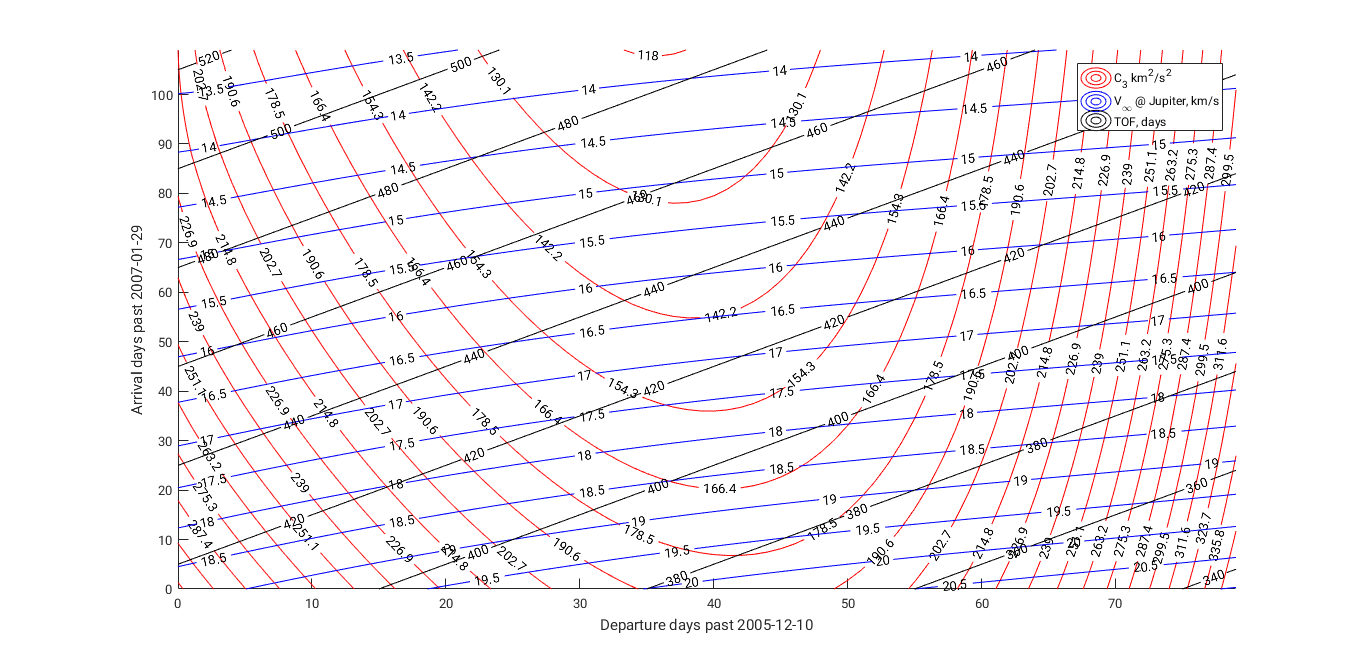
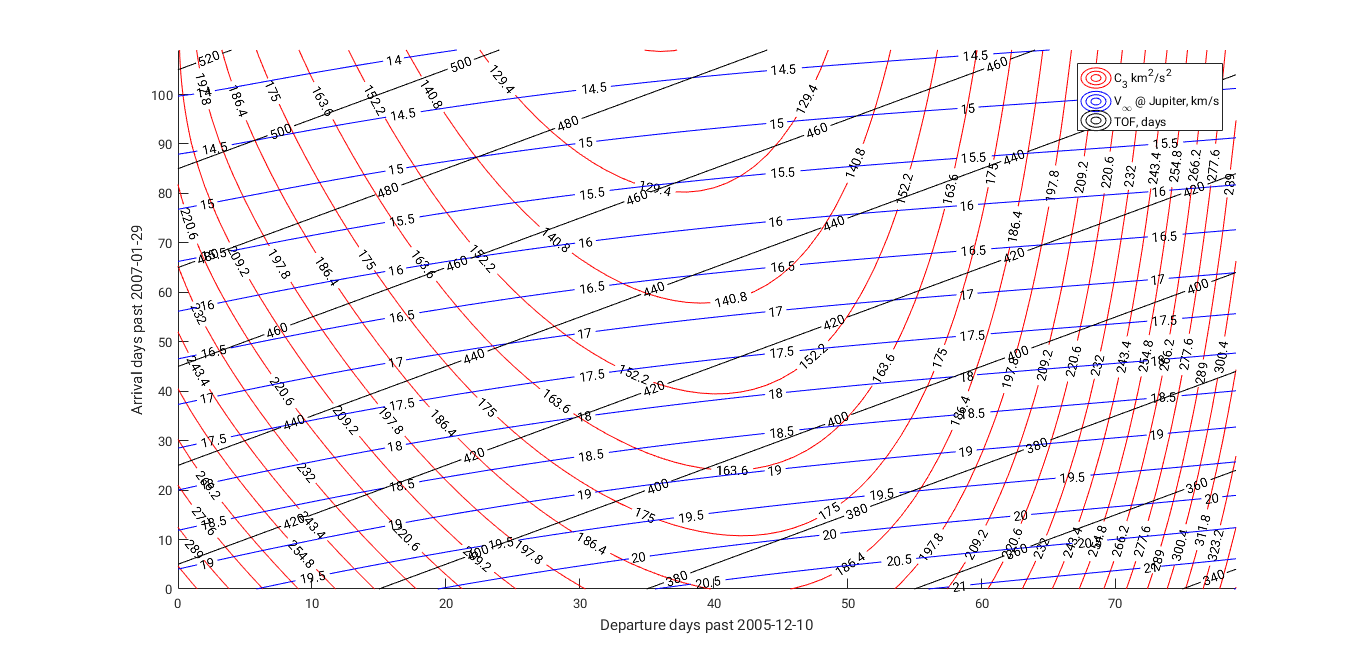
Finishing up lab6

diff --git a/cmd/pcpplots/main.go b/cmd/pcpplots/main.go
@@ -13,11 +13,15 @@ import (
 
 func main() {
 	/*** CONFIG ***/
-	/*initLaunch := time.Date(2016, 1, 1, 0, 0, 0, 0, time.UTC)
-	initArrival := time.Date(2016, 04, 30, 0, 0, 0, 0, time.UTC)
-	maxLaunch := time.Date(2016, 6, 30, 0, 0, 0, 0, time.UTC)
-	maxArrival := time.Date(2017, 2, 5, 0, 0, 0, 0, time.UTC)*/
-
+	/*
+		initPlanet := smd.Earth
+		arrivalPlanet := smd.Mars
+		initLaunch := time.Date(2016, 1, 1, 0, 0, 0, 0, time.UTC)
+		initArrival := time.Date(2016, 04, 30, 0, 0, 0, 0, time.UTC)
+		maxLaunch := time.Date(2016, 6, 30, 0, 0, 0, 0, time.UTC)
+		maxArrival := time.Date(2017, 2, 5, 0, 0, 0, 0, time.UTC)
+		pcpGenerator(initPlanet, arrivalPlanet, initLaunch, maxLaunch, initArrival, maxArrival, 1, 1, true, "lab4pcp0", true)
+	*/
 	// PCP #1 of lab 6
 	initPlanet := smd.Earth
 	arrivalPlanet := smd.Jupiter
@@ -27,29 +31,35 @@ func main() {
 	//maxLaunch := julian.JDToTime(2453794.5)
 	maxLaunch := time.Date(2006, 1, 7, 0, 0, 0, 0, time.UTC)
 	maxArrival := julian.JDToTime(2454239.5)
-	c3MapPCP1, tofMapPCP1, vinfMapPCP1 := pcpGenerator(initPlanet, arrivalPlanet, initLaunch, maxLaunch, initArrival, maxArrival, 24*4, 1, true, "lab6pcp1", true)
+
+	resolutionJupiter := 24 * 1.0
+	c3MapPCP1, tofMapPCP1, vinfMapPCP1 := pcpGenerator(initPlanet, arrivalPlanet, initLaunch, maxLaunch, initArrival, maxArrival, 24*1, resolutionJupiter, true, "lab6pcp1", true)
 
 	//PCP #2 of lab 6
-	initPlanet = smd.Jupiter
-	arrivalPlanet = smd.Pluto
-	initLaunchJup := julian.JDToTime(2454129.5)
-	initArrival = julian.JDToTime(2456917.5)
+	/*initPlanet = smd.Jupiter
+	arrivalPlanet = smd.Pluto*/
+	//initLaunchJup := julian.JDToTime(2454129.5)
+	initArrivalPluto := julian.JDToTime(2456917.5)
 	maxLaunchJup := julian.JDToTime(2454239.5)
-	maxArrival = julian.JDToTime(2457517.5)
+	maxArrivalPluto := julian.JDToTime(2457517.5)
+	//pcpGenerator(smd.Jupiter, smd.Pluto, initLaunchJup, maxLaunchJup, initArrivalPluto, maxArrivalPluto, 24*1, 24*1, false, "lab6pcp2", true)
 
 	/*** END CONFIG ***/
-	/*vinfInitMapPCP2, tofMapPCP2, vinfArrMapPCP2 :=*/
-	pcpGenerator(initPlanet, arrivalPlanet, initLaunchJup, maxLaunchJup, initArrival, maxArrival, 1, 1, false, "lab6pcp2", true)
-
-	if true {
-		return
-	}
 
 	// Lab6 searching
-	earthDepart := time.Date(2006, 1, 9, 0, 0, 0, 0, time.UTC)
-	minC3 := 1e6 // Arbitrary large value
-	maxC3 := 180.
-	minDT := time.Now()
+	//earthDepart := time.Date(2006, 1, 9, 0, 0, 0, 0, time.UTC)
+	maxC3 := 180. // Fixed
+	minC3 := 1e6  // Arbitrary large value
+	minVinfInPluto := 1e6
+	minEarthLaunchDT := time.Now()
+	minPlutoArrivalDT := time.Now()
+	/* The c3 is the most important because the lower it is, the more science payload mass we can have.
+	So the forcing function here will simply be the sum of the c3 and the vInf at arrival. Some back of the enveloppe
+	shows that should be good stuff.
+	*/
+	var mcVal, mcC3, mcVinfJGA, mcVinfPluto float64
+	mcJGA := time.Now()
+	mcVal = 1e20 // large
 	for launchDT, c3PerDay := range c3MapPCP1 {
 		for arrivalIdx, c3 := range c3PerDay {
 			if c3 > maxC3 {
@@ -60,18 +70,48 @@ func main() {
 			if arrivalDT.After(maxArrival) {
 				continue
 			}
-			// All constraints are met
-			if c3 < minC3 {
-				minDT = launchDT
-				minC3 = c3
+			vinfInJupiter := vinfMapPCP1[launchDT][arrivalIdx]
+			// All departure constraints seem to be met.
+			vinfDepJMapPCP2, tofMapPCP2, vinfArrPMapPCP2 := pcpGenerator(smd.Jupiter, smd.Pluto, arrivalDT, maxLaunchJup, initArrivalPluto, maxArrivalPluto, resolutionJupiter, 24*1, false, "lab6pcp3tmp", true)
+			// Go through solutions and move on with values which are within the constraints.
+			for depJupDT, vInfDepPerDay := range vinfDepJMapPCP2 {
+				for arrPlutIdx, vInfDepJup := range vInfDepPerDay {
+					if math.Abs(vinfInJupiter-vInfDepJup) < 0.1 {
+						vinfArr := vinfArrPMapPCP2[depJupDT][arrPlutIdx]
+						if vinfArr < 14.5 {
+							if vinfArr < minVinfInPluto {
+								minVinfInPluto = vinfArr
+							}
+							// Yay! All conditions work
+							if c3 < minC3 {
+								minEarthLaunchDT = launchDT
+								minC3 = c3
+							}
+							//minPlutoArrivalDT
+							plutoTOF := tofMapPCP2[launchDT][arrivalIdx]
+							plutoArrivalDT := arrivalDT.Add(time.Duration(plutoTOF*24) * time.Hour)
+							if plutoArrivalDT.Before(minPlutoArrivalDT) {
+								minPlutoArrivalDT = plutoArrivalDT
+							}
+							// Apply my forcing function
+							val := c3 + vinfArr
+							if val < mcVal {
+								mcVal = val
+								mcJGA = arrivalDT
+								mcC3 = c3
+								mcVinfJGA = vInfDepJup
+								mcVinfPluto = vinfArr
+							}
+						}
+					}
+				}
 			}
 		}
 	}
-	fmt.Printf("=== MIN ===\nDT: %s\tc3=%.3f km^2/s^2\n", minDT, minC3)
-	_, c3ok := c3MapPCP1[earthDepart]
-	_, vinfok := vinfMapPCP1[earthDepart]
-	_, tofok := tofMapPCP1[earthDepart]
-	fmt.Printf("PCP1 existance: %v %v %v\n", c3ok, vinfok, tofok)
+	fmt.Printf("=== MIN ===\nDT: %s\tc3=%.3f km^2/s^2\n", minEarthLaunchDT, minC3)
+	fmt.Printf("min arrival at Pluto: %s\n", minPlutoArrivalDT)
+	fmt.Printf("min vInf at Pluto: %f km/s\n", minVinfInPluto)
+	fmt.Printf("=== SELECTION ===\nJGA: %s\tc3=%.3f km^2/s^2\nvInf@JGA: %.3f km/s\tvInf@PCE: %.3f\n", mcJGA, mcC3, mcVinfJGA, mcVinfPluto)
 }
 
 func pcpGenerator(initPlanet, arrivalPlanet smd.CelestialObject, initLaunch, maxLaunch, initArrival, maxArrival time.Time, ptsPerLaunchDay, ptsPerArrivalDay float64, plotC3 bool, pcpName string, verbose bool) (c3Map, tofMap, vinfMap map[time.Time][]float64) {
@@ -123,9 +163,9 @@ func pcpGenerator(initPlanet, arrivalPlanet smd.CelestialObject, initLaunch, max
 			fmt.Printf("Launch date %s\n", launchDT)
 		}
 		// Initialize the values
-		c3Map[launchDT] = make([]float64, arrivalWindow)
-		tofMap[launchDT] = make([]float64, arrivalWindow)
-		vinfMap[launchDT] = make([]float64, arrivalWindow)
+		c3Map[launchDT] = make([]float64, arrivalWindow*int(ptsPerArrivalDay))
+		tofMap[launchDT] = make([]float64, arrivalWindow*int(ptsPerArrivalDay))
+		vinfMap[launchDT] = make([]float64, arrivalWindow*int(ptsPerArrivalDay))
 
 		initOrbit := initPlanet.HelioOrbit(launchDT)
 		initPlanetR := mat64.NewVector(3, initOrbit.R())

diff --git a/cmd/pcpplots/matlab/pcpplots.m b/cmd/pcpplots/matlab/pcpplots.m
@@ -12,8 +12,20 @@ tof = tof';
 launch_days = 0:dates(1,1):dates(1,2) - 1;
 arrival_days = 0:dates(2,1):dates(2,2) - 1;
 
-vinf_contours = round(min(min(vinf))):round((max(max(vinf))-min(min(vinf)))/15, 1):round(max(max(vinf)));
-C3_contours = round(min(min(C3))):round((max(max(C3))-min(min(C3)))/20, 1):round(max(max(C3)));
+maxVinf = max(max(vinf));
+ptsVinf = 15;
+if maxVinf == inf
+    maxVinf = 10;
+    ptsVinf = 6;
+end
+maxC3= max(max(C3));
+ptsC3 = 20;
+if maxC3 == inf
+    maxC3 = 100;
+    ptsC3 = 30;
+end
+vinf_contours = round(min(min(vinf))):round((maxVinf-min(min(vinf)))/ptsVinf, 1):round(maxVinf);
+C3_contours = round(min(min(C3))):round((maxC3-min(min(C3)))/ptsC3, 1):round(maxC3);
 
 figure(1)
 hold on

diff --git a/cmd/refframes/horizon.py b/cmd/refframes/horizon.py
@@ -35,6 +35,7 @@ if __name__ == '__main__':
     end_date = parsedt(args.end)
     if start_date.year != end_date.year:
         raise ValueError("must generate year by year")
+    end_date += timedelta(days=1)
 
     _load_kernels_()
     f = open('../../data/horizon/' + args.planet + '-' + str(start_date.year) + '.csv', 'w')
